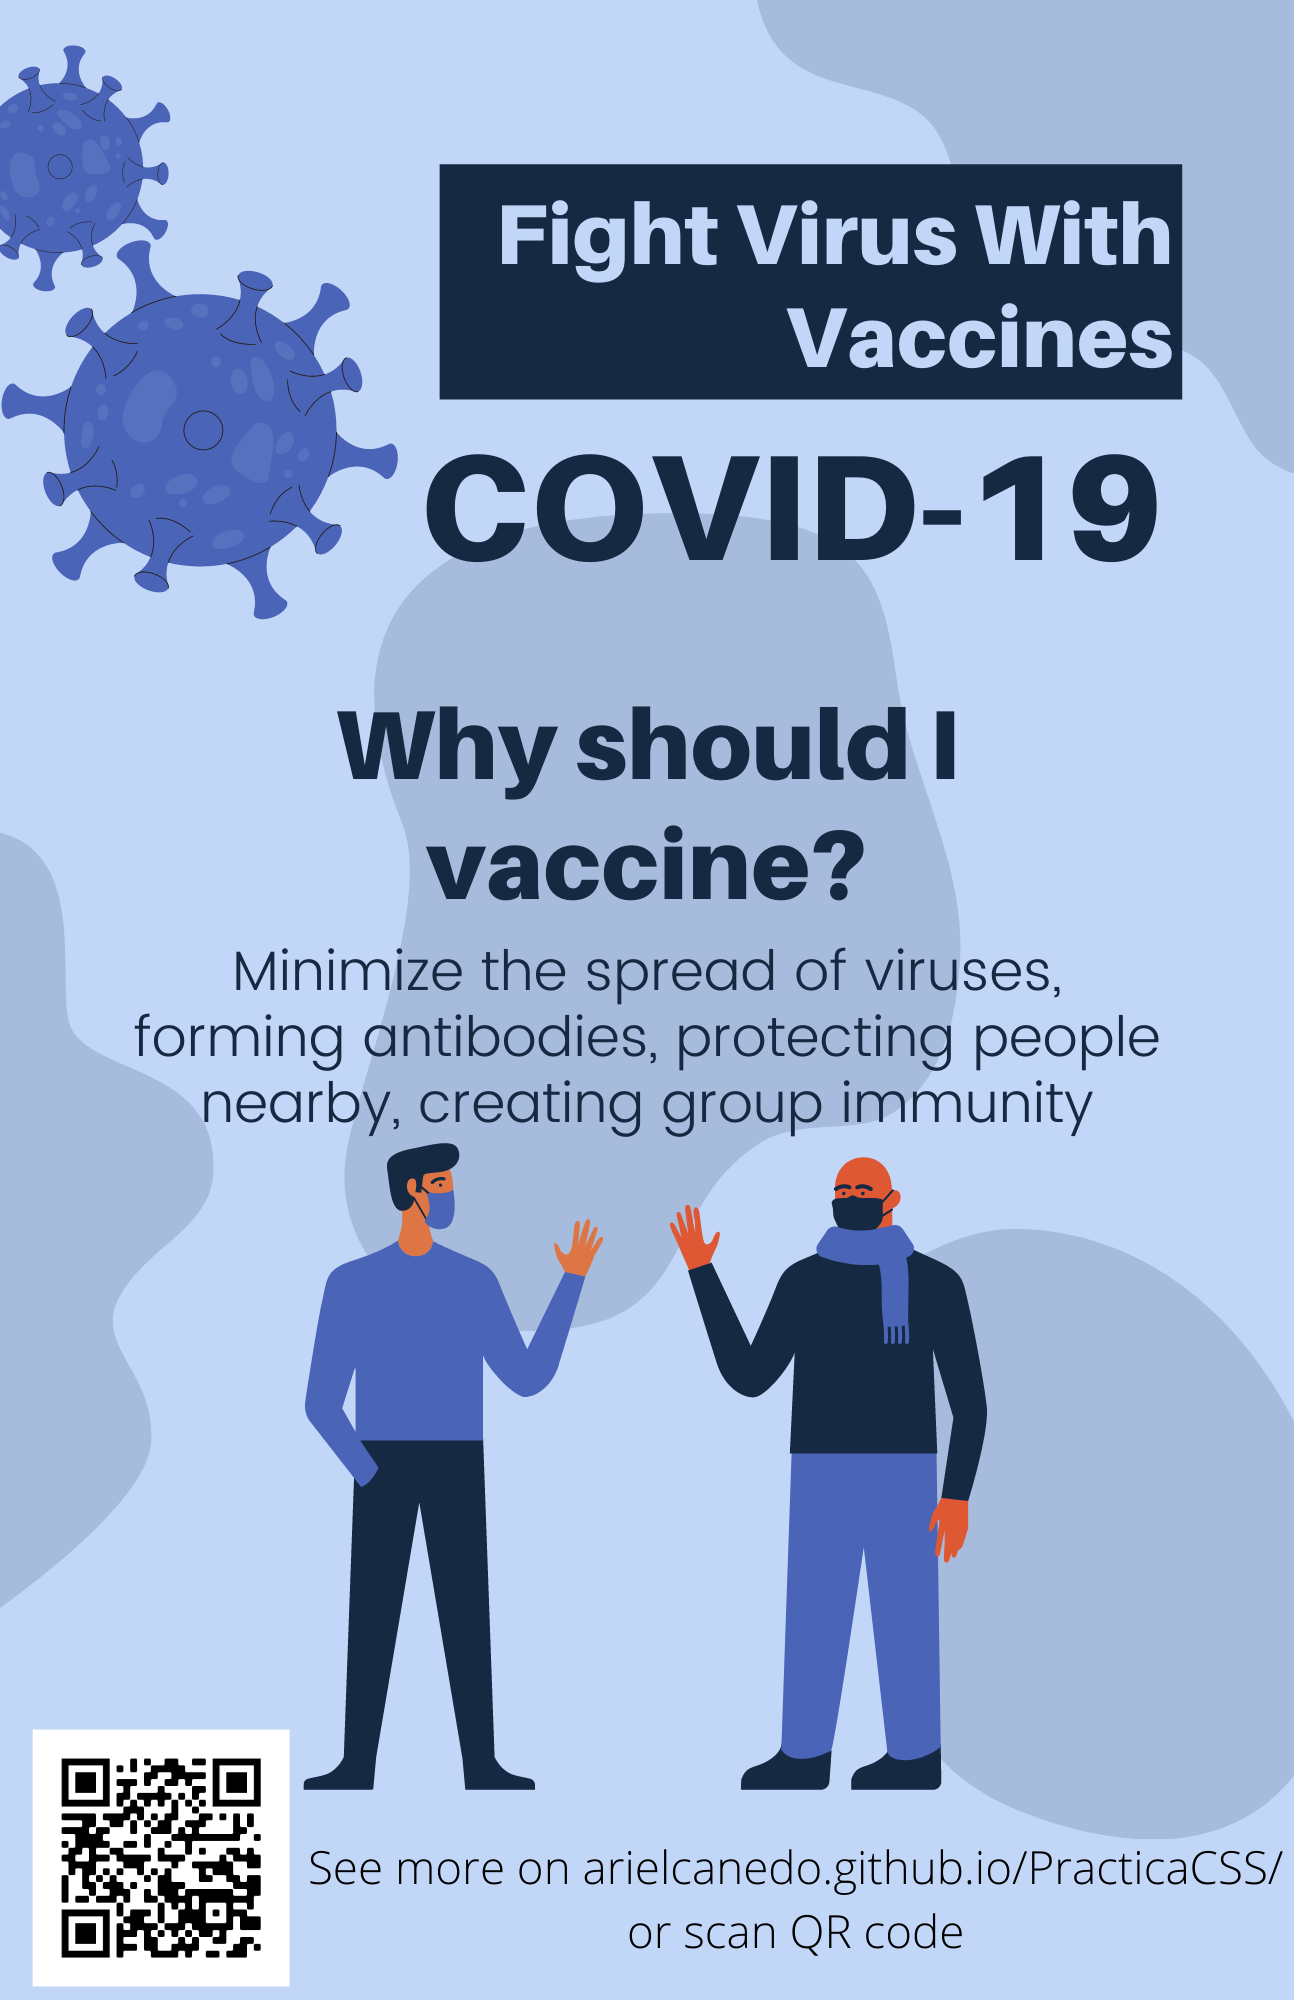
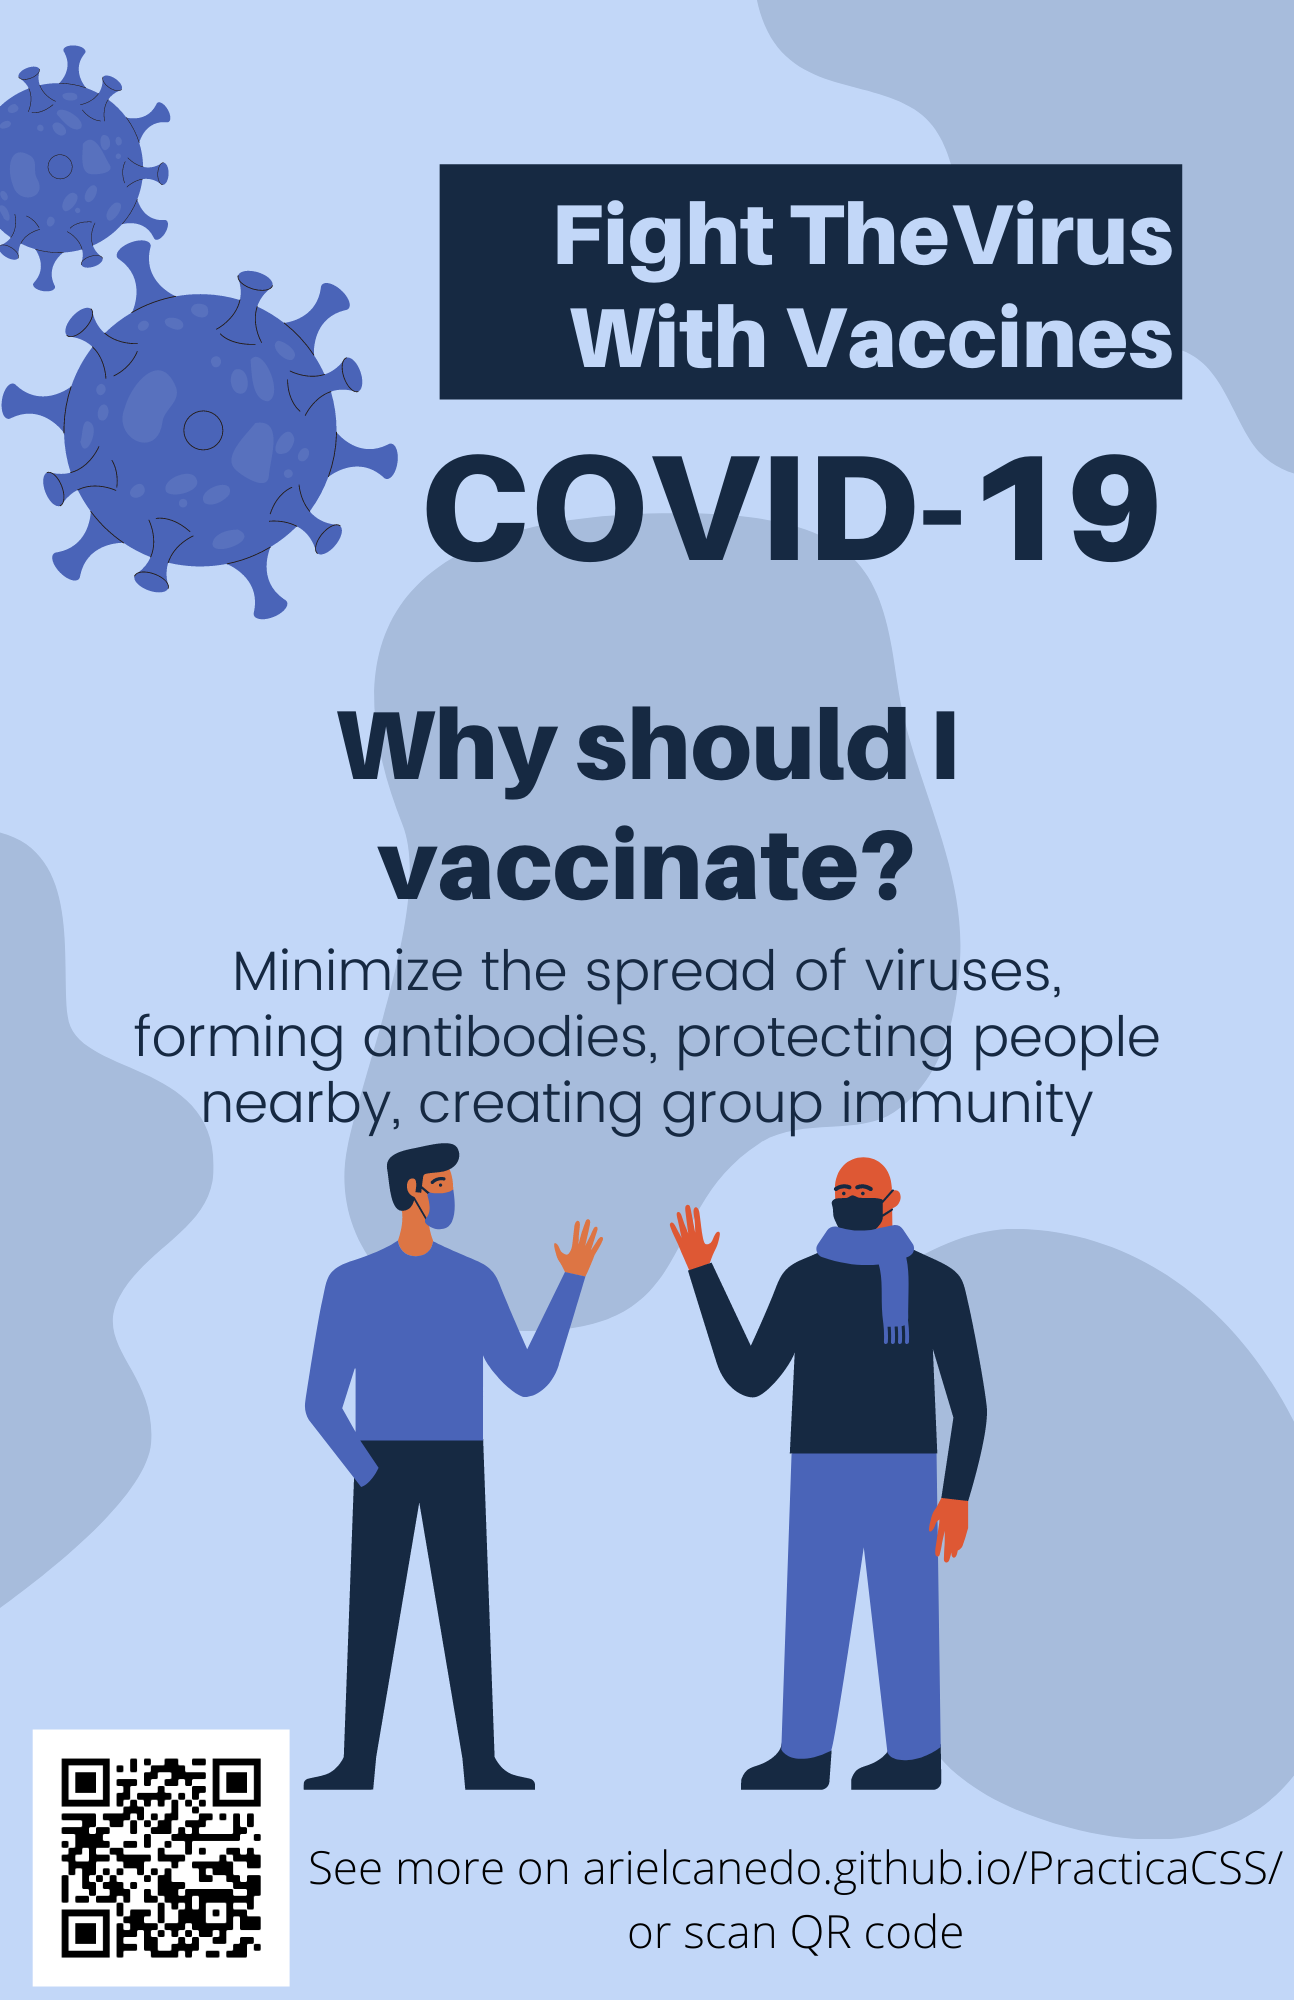
foto de index y campaña
Actualicé errores ortograficos en el index y en la imagen de publicidad

Changed region(s): [[0.3709, 0.093, 0.8964, 0.186], [0.2782, 0.403, 0.711, 0.465]]

diff --git a/index.html b/index.html
@@ -4,7 +4,7 @@
     <meta charset="UTF-8">
     <meta http-equiv="X-UA-Compatible" content="IE=edge">
     <meta name="viewport" content="width=device-width, initial-scale=1.0">
-    <title>Vacunación</title>
+    <title>Vaccination</title>
     <link href="./css/bootstrap.css" rel="stylesheet">
     <script src="https://cdn.jsdelivr.net/npm/bootstrap@5.1.3/dist/js/bootstrap.bundle.min.js" integrity="sha384-ka7Sk0Gln4gmtz2MlQnikT1wXgYsOg+OMhuP+IlRH9sENBO0LRn5q+8nbTov4+1p" crossorigin="anonymous"></script>
     <link href="./css/style.css" rel="stylesheet">
@@ -23,7 +23,7 @@
     </button>
     <div class="collapse navbar-collapse" id="navbarCollapse">
         <div class="navbar-nav ms-auto mx-lg-auto py-0 flex-container">
-            <a href="index.html" class="titulos">Datebase</a>
+            <a href="index.html" class="titulos">Database</a>
             <a href="#nosotros" class="titulos">Education</a>
             <a href="#menu" class="titulos">News</a>
             <a href="#galeria" class="titulos">Regulation</a>
@@ -37,7 +37,7 @@
 <!-- Hero Start -->
   <div class="container-fluid herobanner">
     <div class="herocontainer heroizq">
-                <h1 class="herotitle">Fight Virus With Vaccines</h1>
+                <h1 class="herotitle">Fight The Virus With Vaccines</h1>
                 <p class="descriphero">Let's stop this pandemic by killing the virus with a vaccine, don't let yourself and your family get infected</p>
             <div class="seccioniconos">
             
@@ -72,7 +72,6 @@
             </div>
     </div>
     <div class="heroazul d-flex justify-content-end">
-<img class="" src="./assets/jeringa_vaccine.png" style="margin-top: 115px;" width="450px" height="auto" alt="vacuna imagen">
     </div>
 </div>
 <!-- Hero End -->
@@ -88,8 +87,8 @@
 <!-- Información de porqué vacunarse -->
 <div class="d-flex align-items-center mx-5 my-4">
     <div class="d-flex flex-column">
-        <h1 class="OtherTitles">Why should I vaccine?</h1>
-        <p class="descriphero">In order to avoid any dobuts about getting the COVID-19 vaccine, identify the following 4 benefits of COVID-19 vaccination :
+        <h1 class="OtherTitles">Why should I vaccinate?</h1>
+        <p class="descriphero">In order to avoid any doubts about getting the COVID-19 vaccine, identify the following 4 benefits of COVID-19 vaccination :
         </p>
     </div>
 </div>
@@ -102,12 +101,12 @@
         <div class="cards dropshad flotantecartas">
         <span class="iconos3"style="margin-top:15%;"><i class="fa-solid fa-user-shield"></i></span>
         <p class="cardtitle">Forming antibodies</p>
-        <p class="descriphero" style="font-size:0.9em; text-align: justify;">COVID-19 vaccine proven to help shape antibody response for immune system</p>
+        <p class="descriphero" style="font-size:0.9em; text-align: justify;">COVID-19 vaccine is proven to help shape antibody response for immune system</p>
         </div>
         <div class="cards dropshad flotantecartas">
         <span class="iconos3"style="margin-top:15%;"><i class="fa-solid fa-users"></i></span>
         <p class="cardtitle">Protecting people nearby</p>
-        <p class="descriphero" style="font-size:0.9em; text-align: justify;">The benefits of COVID-19 vaccination are the vaccine that we get can also help protect people around us</p>
+        <p class="descriphero" style="font-size:0.9em; text-align: justify;">The benefits of COVID-19 vaccination are that the vaccine that we get can also help protect people around us</p>
         </div>
         <div class="cards dropshad flotantecartas">
         <span class="iconos3"style="margin-top:15%;"><i class="fa-solid fa-virus-covid-slash"></i></span>
@@ -125,7 +124,7 @@
     </div>
     <div class="columna">
         <h1 class="OtherTitles">Preparations Before Vaccine</h1>
-        <p class="descriphero">the success of vaccines is strongly influenced by the strngth of the body's immune system. Therefore, there are several things that can be tired to make the COVID-19 vaccine work :
+        <p class="descriphero">the success of vaccines is strongly influenced by the strength of the body's immune system. Therefore, there are several things that can be tried tired to make the COVID-19 vaccine work :
         </p>
         <div class="accordion accordion-flush accord" id="accordionFlushExample">
             <div class="accordion-item">
@@ -237,7 +236,7 @@
   <div class="firstfoot">
       <div class="vacin">
           <h2 class="vacun">Vaccination</h2>
-          <p class="our">Our goal is to help the world free from the ongoing pandemic</p>
+          <p class="our">Our goal is to help the world be free from the ongoing pandemic</p>
       </div>
 
       <div>

diff --git a/css/style.css b/css/style.css
@@ -95,8 +95,11 @@ padding-right: 10%;
 }
 
 .heroazul{
-    background: rgb(0,212,255);
-    background: linear-gradient(rgb(31, 175, 241) 1%, rgba(0,99,175,1) 100%);
+    background-image: url(../assets/nurse.png);
+    height: 50rem;
+    background-size: cover;
+    background-repeat: no-repeat;
+    background-position: center center;
 }
 
 .heroizq{
